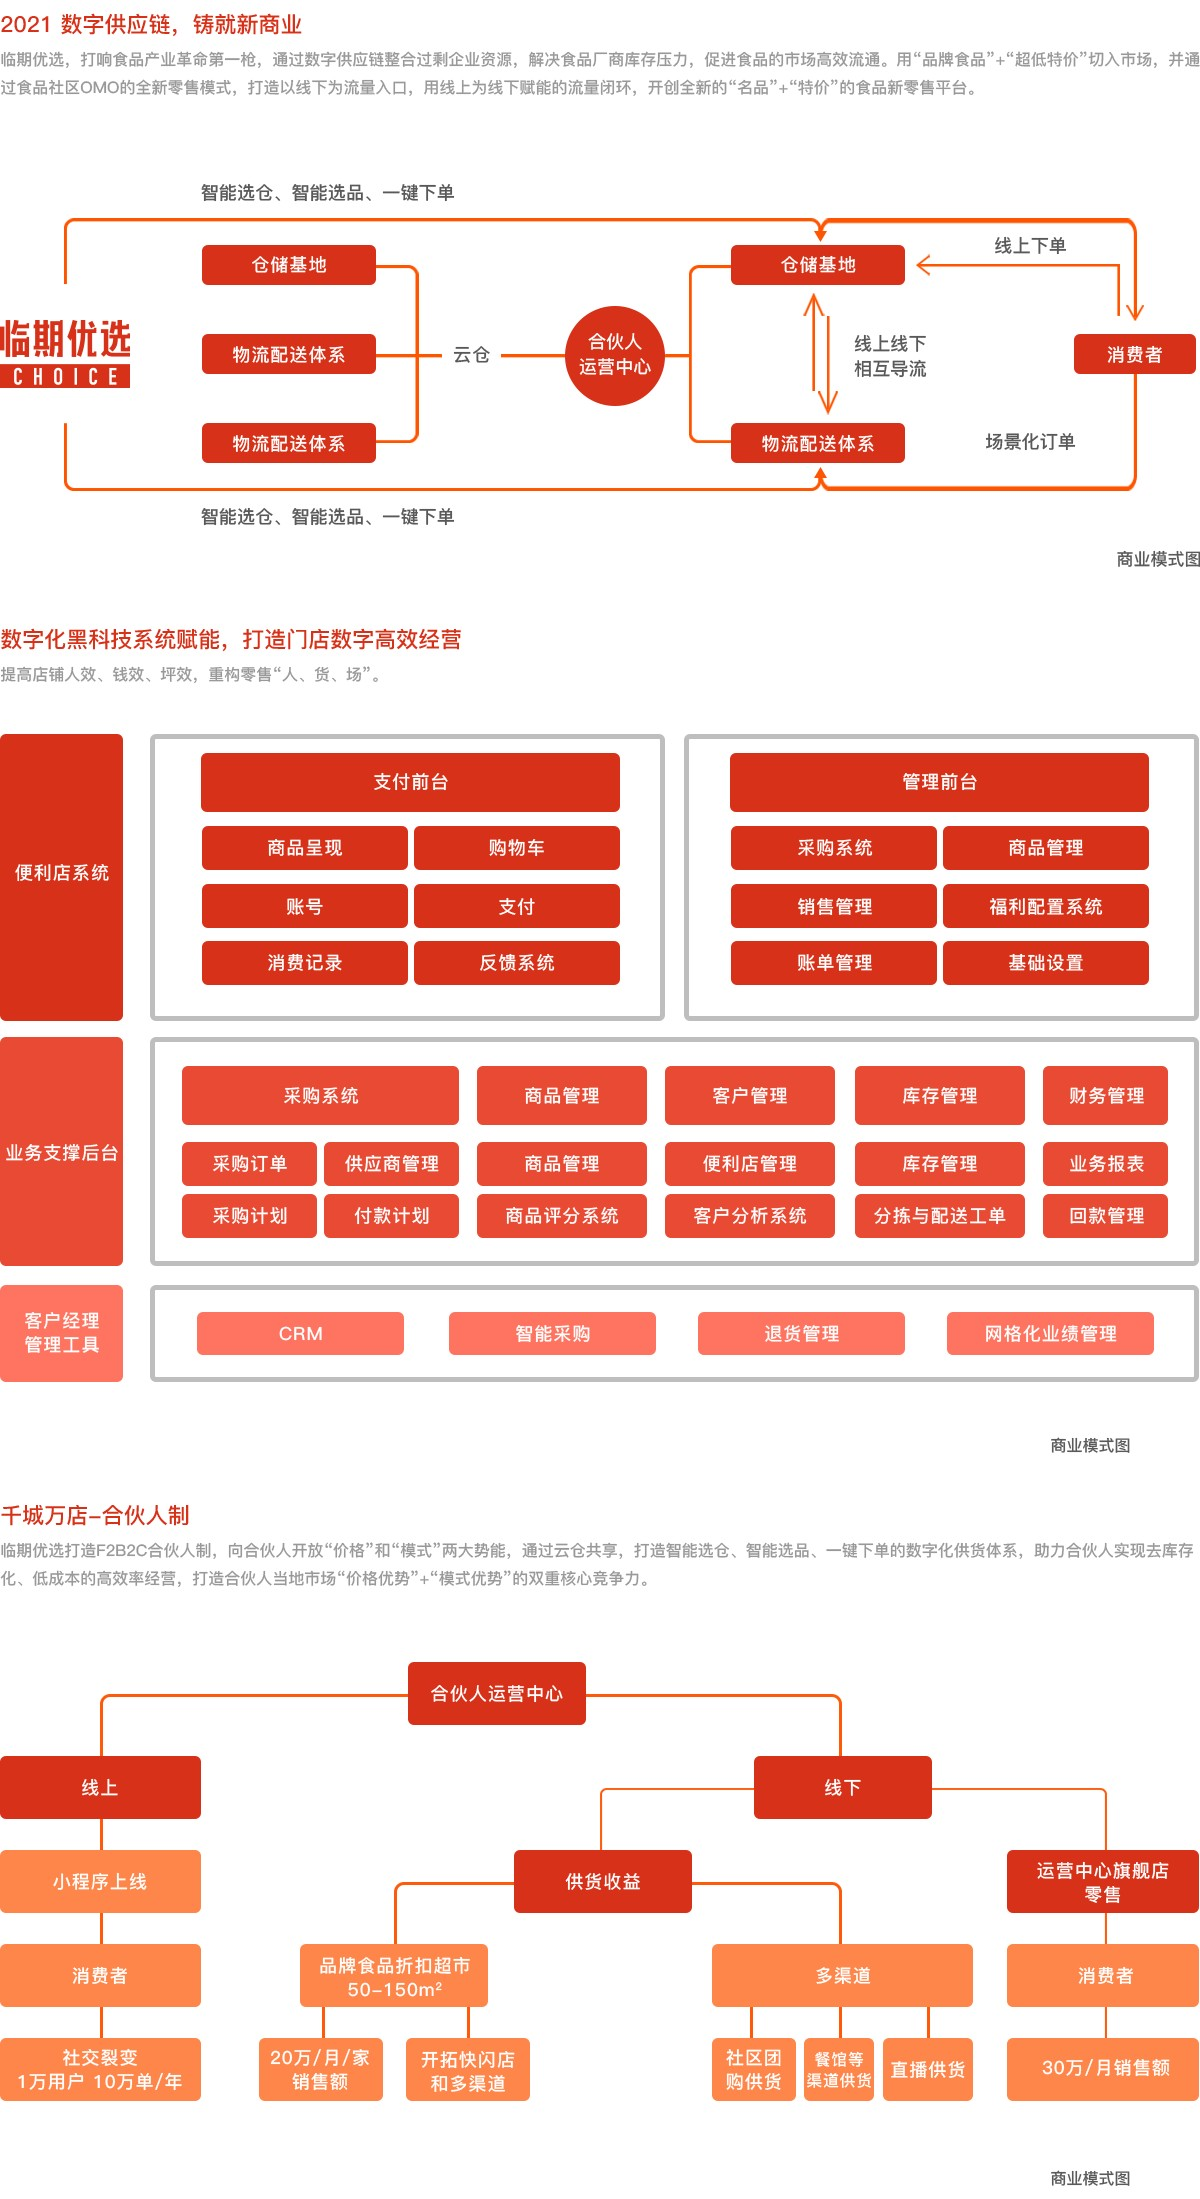
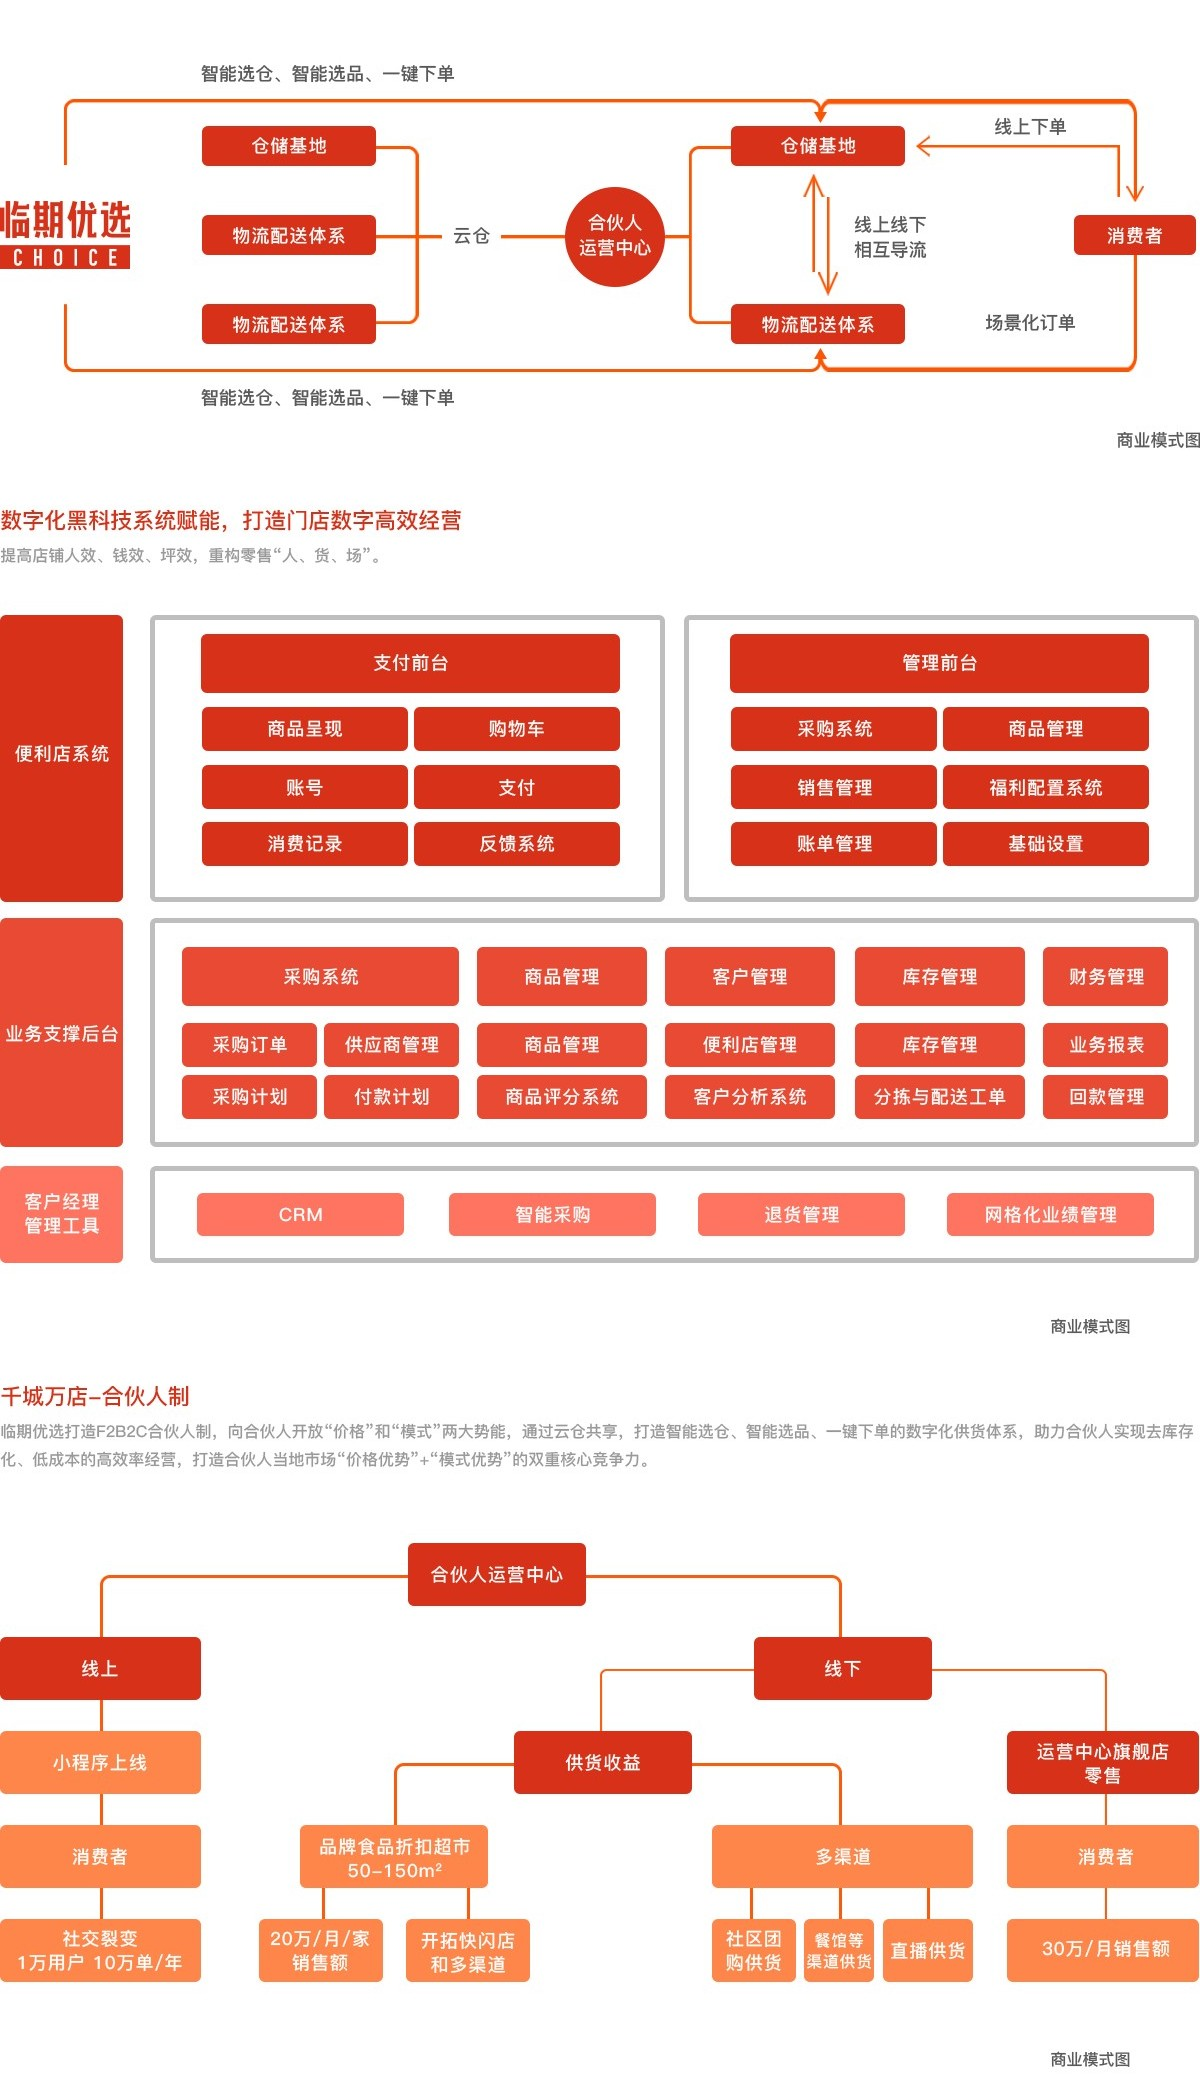
基本完成

diff --git a/src/views/Entrance.vue b/src/views/Entrance.vue
@@ -1,3 +1,169 @@
 <template>
-  <div class="page">加盟入口</div>
+  <div class="page">
+    <banner
+      text="专业 感恩 协作 共赢"
+      desc="———— 临期优选"
+      bg="/images/banner2.jpg" />
+    <div class="content">
+      <div class="center">
+        <div class="title">加盟入口</div>
+        <div class="form">
+          <div class="one">
+            <div class="item">
+              <span>姓 名：</span>
+              <div class="sub">
+                <el-input
+                  v-model="params.name"
+                  placeholder="必填项"></el-input>
+              </div>
+            </div>
+            <div class="item">
+              <span>性 别：</span>
+              <div class="sub">
+                <el-radio
+                  v-model="params.sex"
+                  label="男">男</el-radio>
+                <el-radio
+                  v-model="params.sex"
+                    label="女">女</el-radio>
+              </div>
+            </div>
+          </div>
+          <div class="one">
+            <div class="item">
+              <span>所在地区：</span>
+              <div class="sub">
+                <!-- 文档地址：https://github.com/dwqs/vue-area-linkage -->
+                <area-select
+                  type="all"
+                  v-model="params.area"
+                  :data="pca"></area-select>
+                <!-- 省市区：<area-select v-model="params.area" :data="pcaa"></area-select> -->
+              </div>
+            </div>
+          </div>
+          <div class="one">
+            <div class="item">
+              <span>联系电话：</span>
+              <div class="sub">
+                <el-input
+                  v-model="params.tel"
+                  placeholder="必填项"></el-input></div>
+            </div>
+            <div class="item">
+              <span>微信号码：</span>
+              <div class="sub">
+                <el-input
+                  v-model="params.wechat"
+                  placeholder="必填项"></el-input>
+              </div>
+            </div>
+          </div>
+          <div class="one">
+            <a
+              class="btn"
+              @click="submit">确认提交</a>
+          </div>
+        </div>
+        <div class="title">联系我们</div>
+        <div class="info">
+          <div class="info_l">
+            <p class="t1">杭州昌盛恒驰供应链科技有限公司</p><br />
+            <p>地   址：浙江省杭州市滨江区长河街道江晖路2030号云台国际商务中心934室</p>
+            <p>邮   箱：lqyx0707360@163.com</p>
+            <p>电   话：400-0707-360</p>
+          </div>
+          <div class="info_r">
+            <img src="@/assets/images/join2.jpg" />
+          </div>
+        </div>
+        <div class="line" />
+      </div>
+    </div>
+  </div>
 </template>
+
+<script>
+import { pca } from 'area-data'; // pcaa
+import Banner from 'comps/public/Banner.vue';
+
+export default {
+  name: 'Join',
+  components: { Banner },
+  data() {
+    return {
+      pca,
+      params: {
+        name: '', // 姓名
+        sex: '男', // 性别
+        area: [], // 地区
+        tel: '', // 电话
+        wechat: '', // 微信
+      },
+    };
+  },
+  methods: {
+    submit() {
+      console.log('params', this.params);
+    },
+  },
+};
+</script>
+
+<style lang="less" scoped>
+.form {
+  width: 1100px;
+  display: flex;
+  padding: 0 50px;
+  margin-top: 50px;
+  flex-direction: column;
+  .one {
+    width: 100%;
+    height: 100px;
+    display: flex;
+    align-items: center;
+    .btn {
+      width: 160px;
+      height: 50px;
+      color: #fff;
+      cursor: pointer;
+      font-size: 18px;
+      line-height: 50px;
+      margin-left: 120px;
+      text-align: center;
+      background: #e6310e;
+    }
+    .item {
+      height: 50px;
+      display: flex;
+      margin-right: 50px;
+      align-items: center;
+      span {
+        width: 120px;
+        color: #666;
+        display: flex;
+        font-size: 18px;
+        &::after {
+          content: ' *';
+          color: #e6310e;
+        }
+      }
+    }
+  }
+}
+.info {
+  width: 1100px;
+  display: flex;
+  padding: 0 50px;
+  margin-top: 50px;
+  justify-content: space-between;
+  .info_l {
+    color: #000;
+    display: flex;
+    flex-direction: column;
+    .t1 {
+      font-size: 20px;
+    }
+  }
+}
+</style>

diff --git a/src/views/Project.vue b/src/views/Project.vue
@@ -7,6 +7,10 @@
     <div class="content">
       <div class="center">
         <div class="title">项目介绍</div>
+        <div class="text">
+          <p class="t1">2021 数字供应链，铸就新商业</p>
+          <p>临期优选，打响食品产业革命第一枪，通过数字供应链整合过剩企业资源，解决食品厂商库存压力，促进食品的市场高效流通。用“品牌食品”+“超低特价”切入市场，并通过食品社区OMO的全新零售模式，打造以线下为流量入口，用线上为线下赋能的流量闭环，开创全新的“名品”+“特价”的食品新零售平台。</p>
+        </div>
         <img
           class="ad"
           src="@/assets/images/project.jpg" />
@@ -27,7 +31,20 @@ export default {
 
 <style lang="less" scoped>
 .center {
-  .ad { margin-top: 80px; width: 1200px; }
-  .line { height: 80px; }
+  .ad { margin-top: 0px; }
+  .text {
+    display: flex;
+    padding-top: 50px;
+    flex-direction: column;
+    p {
+      color: #999;
+      font-size: 16px;
+      &.t1 {
+        font-size: 22px;
+        color: #d83119;
+        line-height: 40px;
+      }
+    }
+  }
 }
 </style>

diff --git a/src/styles/main.less b/src/styles/main.less
@@ -110,7 +110,43 @@ body {
       }
     }
   }
+  .ad { margin-top: 80px; }
+  .line { height: 80px; }
 }
 .page {
   min-height: 600px;
+}
+.sub {
+  .el-input__inner {
+    height: 34px !important;
+    &:hover {
+      border-color: #007aff;
+    }
+  }
+  .area-select-wrap .area-select {
+    margin: 0 30px 0 0;
+    padding: 0 15px;
+    color: #666;
+    &:hover {
+      border-color: #007aff;
+    }
+    .area-selected-trigger {
+      padding: 8px 0 7px;
+    }
+  }
+  .area-selectable-list-wrap {
+    left: 0px;
+  }
+  .el-radio__input.is-checked .el-radio__inner {
+    border-color: #d83119;
+    background: #d83119;
+  }
+  .el-radio__input.is-checked+.el-radio__label {
+    color: #d83119;
+  }
+}
+.el-carousel__item.is-animating {
+  // -webkit-transition: -webkit-transform 0.2s linear !important;
+  // transition: -webkit-transform 0.2s linear !important;
+  transition: transform 0.5s linear 0s !important;
 }

diff --git a/src/views/Join.vue b/src/views/Join.vue
@@ -7,6 +7,14 @@
     <div class="content">
       <div class="center">
         <div class="title">加盟优势</div>
+        <img
+          class="ad"
+          src="@/assets/images/join1.jpg" />
+        <div class="title">签约现场</div>
+        <div class="imglist">
+          <swiper-card />
+        </div>
+        <div class="line" />
       </div>
     </div>
   </div>
@@ -14,13 +22,17 @@
 
 <script>
 import Banner from 'comps/public/Banner.vue';
+import SwiperCard from 'comps/public/SwiperCard.vue';
 
 export default {
   name: 'Join',
-  components: { Banner },
+  components: { Banner, SwiperCard },
 };
 </script>
 
 <style lang="less" scoped>
-
+.imglist {
+  width: 100%;
+  margin-top: 80px;
+}
 </style>

diff --git a/src/main.js b/src/main.js
@@ -1,4 +1,6 @@
 import Vue from 'vue';
+import 'vue-area-linkage/dist/index.css';
+import VueAreaLinkage from 'vue-area-linkage';
 import App from './App.vue';
 import router from './router';
 import store from './store';
@@ -12,6 +14,7 @@ import './utils/element.js';
 
 Vue.config.productionTip = false;
 Vue.prototype.$storage = storage;
+Vue.use(VueAreaLinkage);
 Vue.use(createComp);
 
 console.info(`%cv${config.version} (${new Date().toLocaleString()})`, 'color: red');

diff --git a/public/index.html b/public/index.html
@@ -4,6 +4,7 @@
     <meta charset="utf-8">
     <meta http-equiv="X-UA-Compatible" content="IE=edge">
     <meta name="viewport" content="width=device-width,initial-scale=1.0">
+    <meta name="description" content="临期优选，数字供应链，铸就新商业。">
     <link rel="icon" href="<%= BASE_URL %>favicon.ico">
     <title><%= htmlWebpackPlugin.options.title %></title>
   </head>

diff --git a/src/utils/sliderCard.js b/src/utils/sliderCard.js
@@ -20,7 +20,7 @@ class Swiper {
       this.containerWidth = document.body.clientWidth; // 轮播图盒子宽度
     } else {
       // PC端
-      this.containerWidth = 1000; // 轮播图盒子宽度
+      this.containerWidth = 1200; // 轮播图盒子宽度
     }
     this.imgWidth = obj.imgWidth; // 图片宽度
     this.aniTime = obj.aniTime || 500;

diff --git a/src/utils/element.js b/src/utils/element.js
@@ -1,8 +1,12 @@
 import Vue from 'vue';
-import { 
+import {
+  Input,
+  Radio,
   Carousel,
   CarouselItem,
 } from 'element-ui';
 
+Vue.use(Input);
+Vue.use(Radio);
 Vue.use(Carousel);
 Vue.use(CarouselItem);

diff --git a/src/components/base/Header.vue b/src/components/base/Header.vue
@@ -64,7 +64,7 @@ header {
     align-items: center;
     justify-content: space-between;
     .logo {
-      height: 48px;
+      height: 60px;
     }
     .tel {
       display: flex;

diff --git a/src/views/About.vue b/src/views/About.vue
@@ -39,7 +39,5 @@ export default {
       text-indent: 2em;
     }
   }
-  .ad { margin-top: 80px; }
-  .line { height: 80px; }
 }
 </style>

diff --git a/README.md b/README.md
@@ -6,7 +6,8 @@ npm install XXXXXX --save-dev
 or
 yarn add XXXXXX
 // 已添加
-XXXXXXX === axios cross-env babel-plugin-component
+XXXXXXX === axios cross-env babel-plugin-component vue-area-linkage area-data
+// https://github.com/dwqs/vue-area-linkage 省市区联动
 // 待定
 font-awesome i18n antd elementui
 ```
